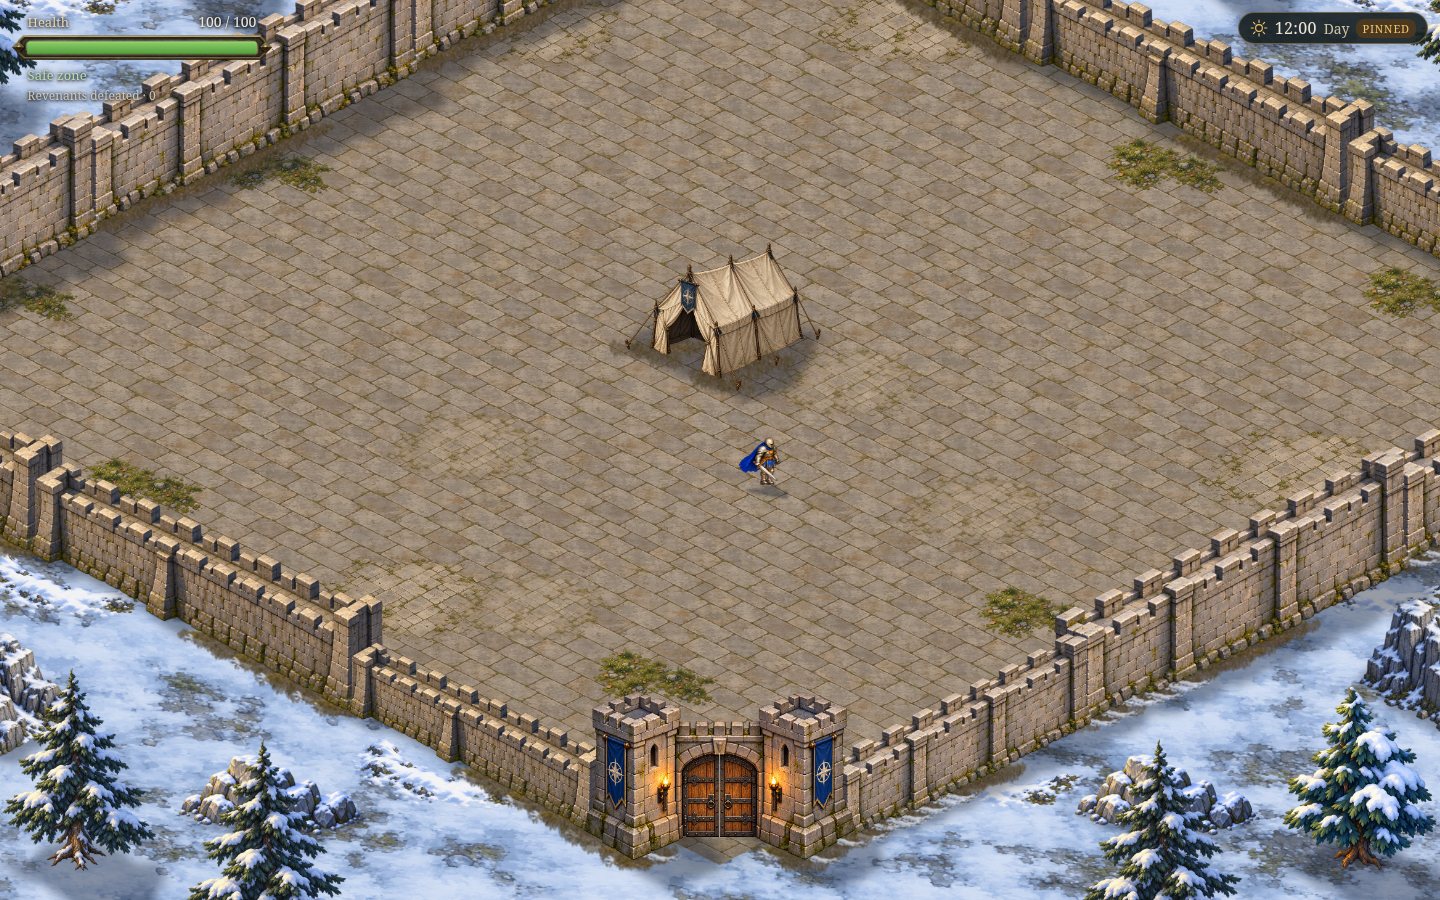
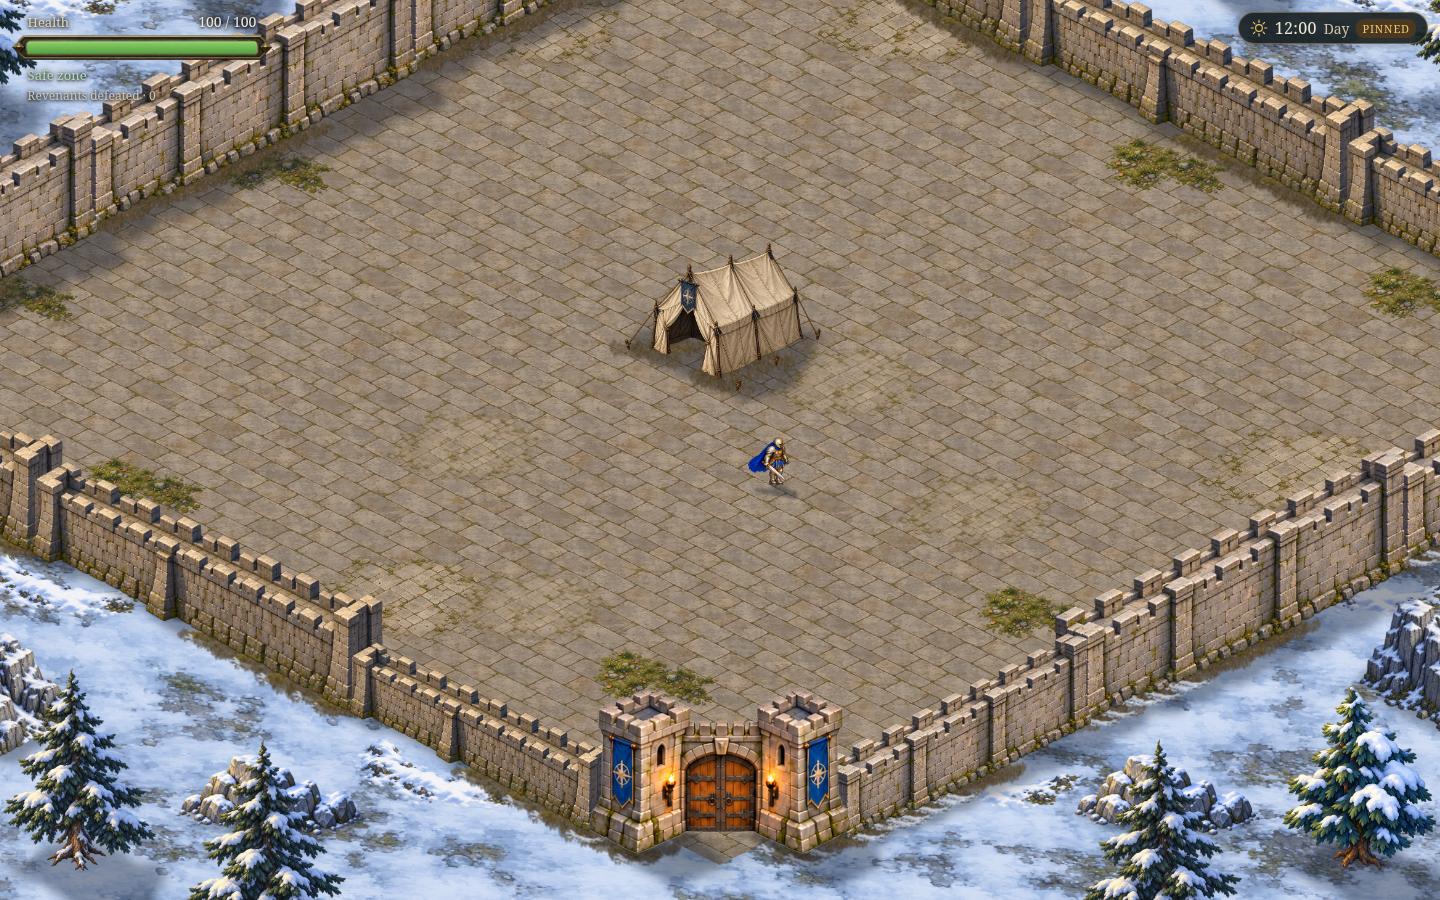
Document reviewed knight footfalls and publish only the current release evidence

Changed region(s): [[0.375, 0.7467, 0.5938, 0.9956], [0.5, 0.4667, 0.5625, 0.56]]

diff --git a/docs/knight-footfalls/knowledge.md b/docs/knight-footfalls/knowledge.md
@@ -1,0 +1,49 @@
+[Play the Stronghold](https://arkadia-stronghold-whachat.fural.space/) · [Open the before/after animation player](https://arkadia-stronghold-whachat.fural.space/knight-footfalls/review.html)
+
+## Alternating foot support
+
+Human review found that diagonal and rear walking still looked like hopping. The v4 frames often repeated the same supporting leg. Earlier automated checks covered visibility and registration, but did not establish that the supporting legs alternated.
+
+The corrected cycle uses grounded contact → right-foot swing → grounded contact → left-foot swing. Boot clearance is low, one foot remains planted, and the body stays level. The diagonal and rear step cycle covers 1.6 times the previous ground distance, reducing cadence while movement speed stays the same.
+
+Straight-down walking, the accepted reference, keeps its exact artwork and timing. Attack, hurt and death artwork also retain their exact RGBA pixels.
+
+## Review the movement
+
+The animation player supports pause, normal speed, 40% speed and a cycle scrubber. It shows previous and corrected movement beside each other in all four facings. The final sheet uses three reviewed key poses for each corrected facing; contact is repeated between the opposite swings. This is a compact four-beat cycle rather than eight purportedly different poses repeating one leg.
+
+![Before and after animation player](https://arkadia-stronghold-whachat.fural.space/knight-footfalls/comparison.png)
+
+![Corrected knight in the mobile game](https://arkadia-stronghold-whachat.fural.space/knight-footfalls/local-390.png)
+
+## Selected imagegen artwork
+
+![Low-clearance diagonal front key poses: contact, right swing, left swing](https://arkadia-stronghold-whachat.fural.space/knight-footfalls/knight-footfalls-front-v5.png)
+
+![Low-clearance diagonal rear and straight rear key poses](https://arkadia-stronghold-whachat.fural.space/knight-footfalls/knight-footfalls-rear-v5.png)
+
+The built-in imagegen tool produced these sources. Each facing shares one scale and a grounded baseline. Nine poses are appended to the original atlas; unused v4 rows remain for reproducibility. The game now has 57 unique knight frames. [Exact prompts](/organizations/ORd5dd6f99b4308d6187031557/repositories/RPe11327fbfe413dbeba246526/files?file=docs%2Fknight-footfalls%2Fprompts.json) · [Packing and verification notes](/organizations/ORd5dd6f99b4308d6187031557/repositories/RPe11327fbfe413dbeba246526/files?file=docs%2Fknight-footfalls%2FREADME.md)
+
+## Verification
+
+Production build and local browser checks passed against a clean committed release. Checks inspect actual boot pixels to establish that the lower supporting foot switches screen sides, supporting soles remain on the ground line, and crown movement stays within two atlas pixels. They also verify transparent cell borders, clip indices, atlas revision, exact preservation of down-facing and combat artwork, desktop/mobile direction selection and successful combat without browser errors.
+
+These checks establish those invariants. Naturalness remains a visual judgement, made easier to inspect with the comparison player.
+
+[Verification script](/organizations/ORd5dd6f99b4308d6187031557/repositories/RPe11327fbfe413dbeba246526/files?file=scripts%2Fverify-knight.mjs) · [Local report](/organizations/ORd5dd6f99b4308d6187031557/repositories/RPe11327fbfe413dbeba246526/files?file=docs%2Fknight-footfalls%2Flocal.json)
+
+## Generation attempts
+
+These six discarded images record why checking the actual leg poses matters. The early sheets still repeated one leg; later keys established opposing support but lifted the knees too high. They are reference evidence and are not loaded by the game.
+
+![Rejected full gait with repeated legs](https://arkadia-stronghold-whachat.fural.space/knight-footfalls/attempts/01-repeated-gait.png)
+
+![Rejected front cycle with repeated legs](https://arkadia-stronghold-whachat.fural.space/knight-footfalls/attempts/02-repeated-front.png)
+
+![Rejected contact comparison](https://arkadia-stronghold-whachat.fural.space/knight-footfalls/attempts/03-contact-pair.png)
+
+![Front key poses before reducing the raised sole height](https://arkadia-stronghold-whachat.fural.space/knight-footfalls/attempts/04-front-keys-high.png)
+
+![Rejected eight-frame extension repeating one side](https://arkadia-stronghold-whachat.fural.space/knight-footfalls/attempts/05-repeated-eight.png)
+
+![Rear key poses before reducing the raised sole height](https://arkadia-stronghold-whachat.fural.space/knight-footfalls/attempts/06-rear-keys-high.png)
